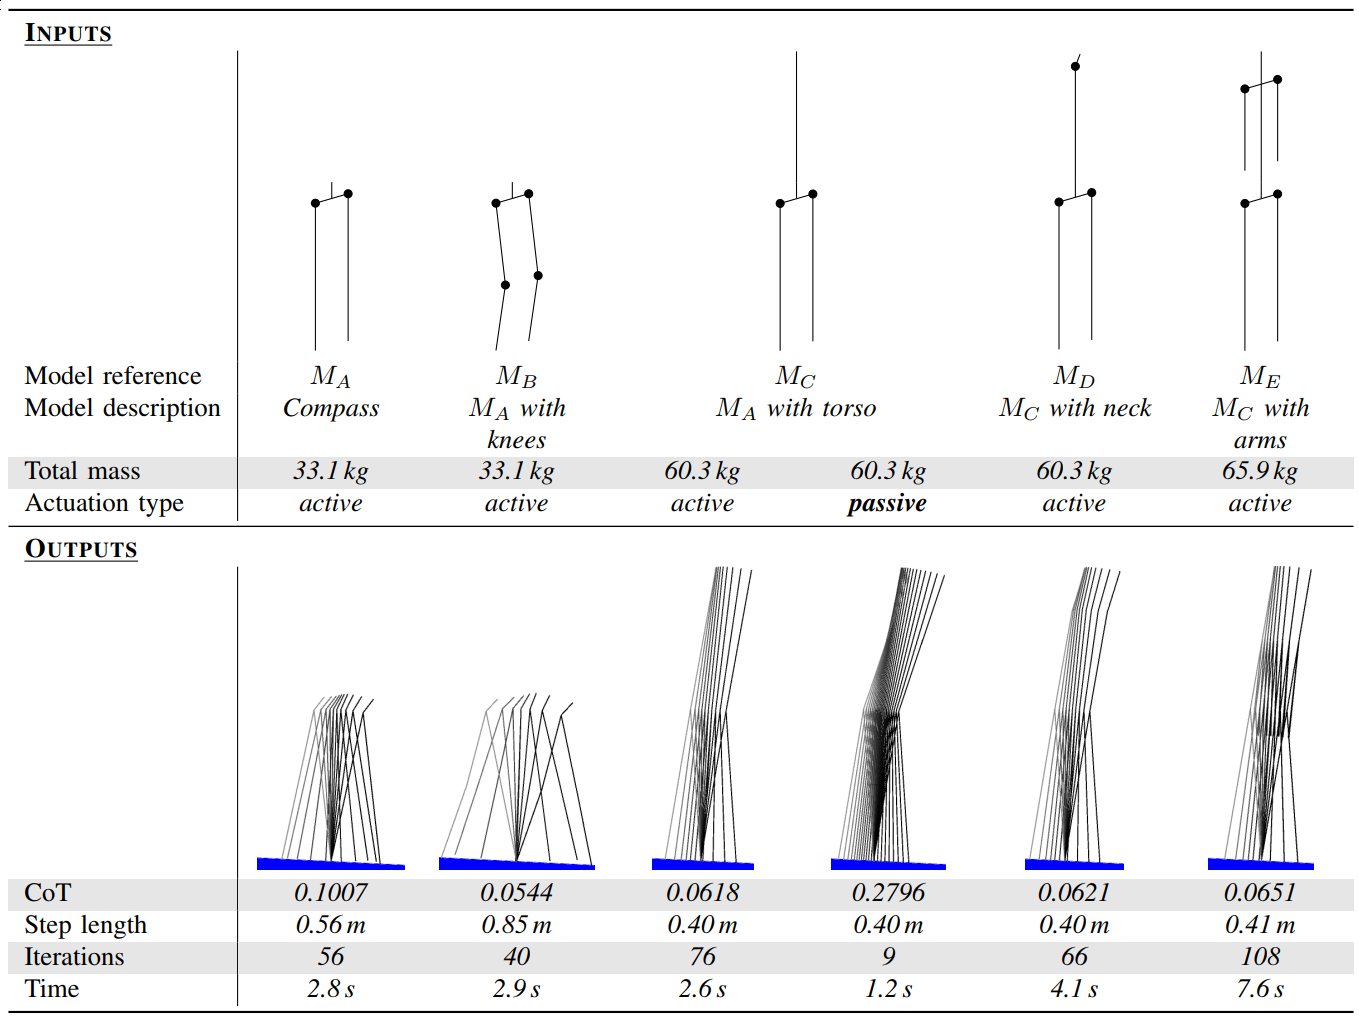
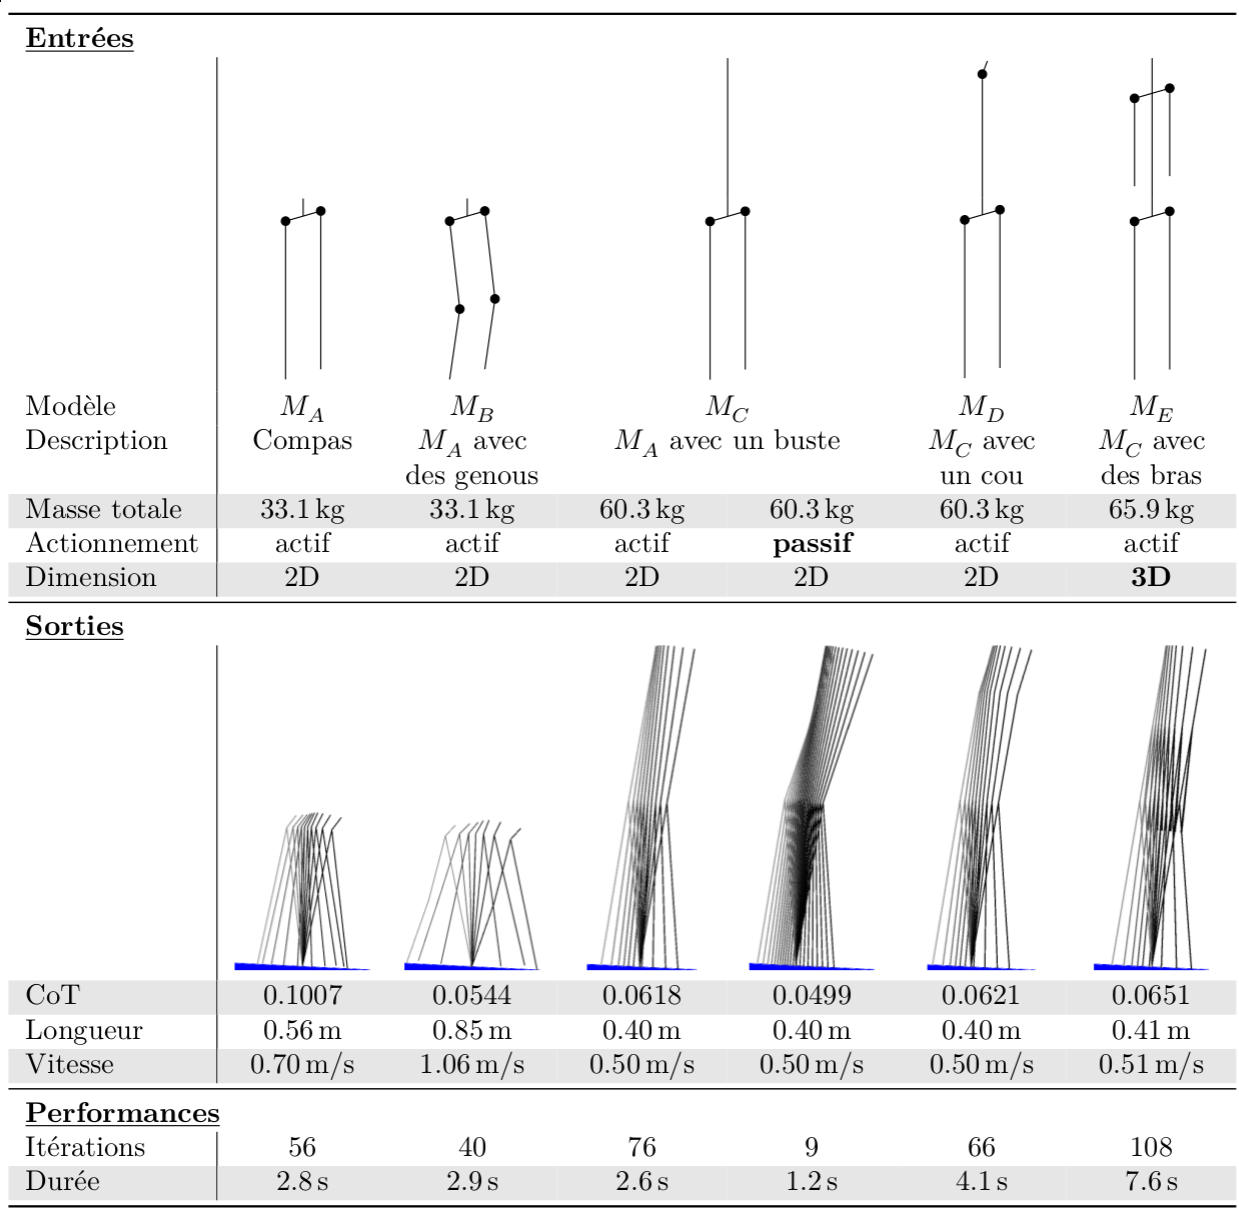
divers

Changed region(s): [[0.0, 0.5312, 1.0, 1.0], [0.0, 0.0625, 1.0, 0.5625], [0.0, 0.0, 1.0, 0.0625]]

diff --git a/presentation/3-humanoide/a-2-plan.md b/presentation/3-humanoide/a-2-plan.md
@@ -22,9 +22,9 @@
 
 <div class="notes">
 
-Dans cette seconde partie, nous allons donc étudier ces robots humanoïdes, et leur faire générer des mouvements pour se
+Dans cette seconde partie, nous allons donc étudier ces robots bipèdes, et leur faire générer des mouvements pour se
 déplacer. Pour cela, nous commencerons par étudier la manière dont sont classiquement fabriqués les plateformes de
-recherches bipèdes, et nous remettrons ces techniques en question, à la lumière des conclusions que nous avons tiré
+recherches humanoïdes, et nous remettrons ces techniques en question, à la lumière des conclusions que nous avons tiré
 dans la partie précédente.
 
 </div>

diff --git a/presentation/3-humanoide/a-0-c3po.md b/presentation/3-humanoide/a-0-c3po.md
@@ -11,7 +11,7 @@ posera certainement beaucoup de problèmes aux robots mobiles, comme l’un des 
 s’être perdu.
 
 De la même manière, si nous voulons pouvoir envoyer des robots dans des zones dangereuses suite à une catastrophe, il y
-a de grandes chances que la zone soit couverte de gravats, posant autant de problèmes aux robots à roues.
+a de grandes chances que la zone soit couverte de gravats, posant tout autant de problèmes aux robots à roues.
 
 Ces raisons, couplées aux défis techniques et scientifiques que cela représente, motivent entre autres l’équipe Gepetto
 à étudier la locomotion bipède.

diff --git a/presentation/3-humanoide/a-1-videos.md b/presentation/3-humanoide/a-1-videos.md
@@ -9,6 +9,7 @@ certaines sociétés très habiles pour faire de jolies vidéos, la recherche su
 mature, et est n’est actuellement active que dans le monde académique.
 
 Autrement dit, ces vidéos sont très impressionnantes, mais il ne faut surtout pas croire que vous verrez ces robots en
-dehors des laboratoires à court terme.
+dehors des laboratoires à court terme, ni même qu’il existe des équipes capables de générer de tels mouvements sans
+être humains dans la boucle et en toutes circonstances.
 
 </div>

diff --git a/manuscript/7-yoyoman/5-resultats.md b/manuscript/7-yoyoman/5-resultats.md
@@ -32,7 +32,7 @@
         \includegraphics[height=4cm]{imgs/2_100_fixed_with_neck.png} &
         \includegraphics[height=4cm]{imgs/2_100_fixed_3d.png}
         \\ \rowcolor{gray!20}
-        CoT & 0.1007 & 0.0544 & 0.0618 & 0.2796 & 0.0621 & 0.0651
+        CoT & 0.1007 & 0.0544 & 0.0618 & 0.0499 & 0.0621 & 0.0651
         \\ Longueur & 0.56\,m & 0.85\,m & 0.40\,m & 0.40\,m & 0.40\,m & 0.41\,m
         \\ \rowcolor{gray!20}
         Vitesse &  0.70\,m/s & 1.06\,m/s & 0.50\,m/s & 0.50\,m/s & 0.50\,m/s & 0.51\,m/s

diff --git a/presentation/3-humanoide/d-4-publication.md b/presentation/3-humanoide/d-4-publication.md
@@ -1,0 +1,4 @@
+#### Publication
+
+**Guilhem Saurel**, Justin Carpentier, Nicolas Mansard, et Jean-Paul Laumond: « A Simulation Framework for
+Simultaneous Design and Control of Passivity Based Walkers ». IEEE SIMPAR 2016, San Francisco.

diff --git a/presentation/3-humanoide/d-2-actionnement.md b/presentation/3-humanoide/d-2-actionnement.md
@@ -1,4 +1,11 @@
-#### Actionnement
+#### Exemples de conception
+
+##### Actionnement
 
 - Actif: $\tau$ est un couple pur
 - Passif: $\tau = -K_p(q-q_0)-K_d\dot q$
+
+. . .
+
+##### Fonction de coût
+- $CoT \triangleq \cfrac{E}{mgd}$

diff --git a/presentation/3-humanoide/e-4-publication.md b/presentation/3-humanoide/e-4-publication.md
@@ -1,0 +1,4 @@
+#### Publication
+
+Gabriele Buondonno, Justin Carpentier, **Guilhem Saurel**, Nicolas Mansard, Alessandro De Luca, et Jean-Paul Laumond:
+« Optimal Design of Compliant Walkers », IEEE/RSJ IROS 2017, Vancouver.

diff --git a/presentation/3-humanoide/d-3-resultats.md b/presentation/3-humanoide/d-3-resultats.md
@@ -1,3 +1,5 @@
 #### Premiers résultats
 
-![](imgs/simpar.png)
+\centering
+
+![](imgs/simpar.pdf)
